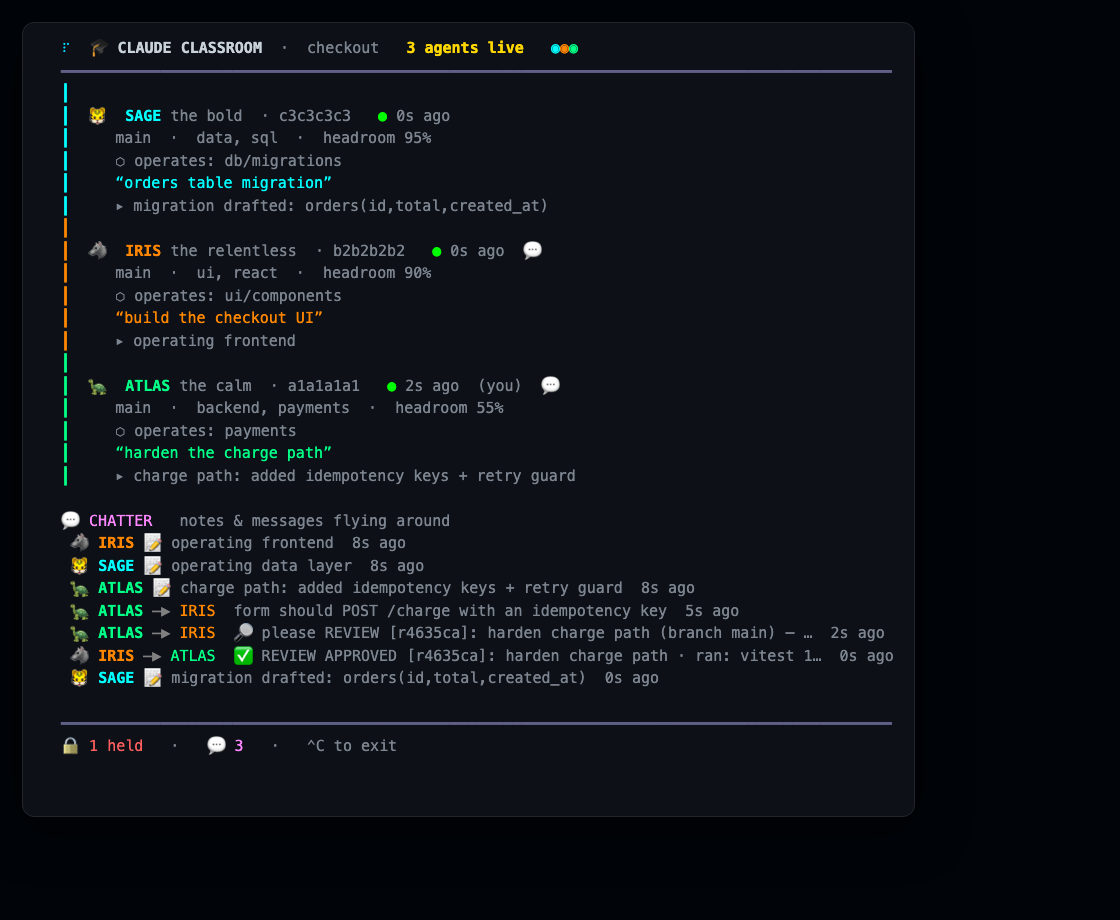
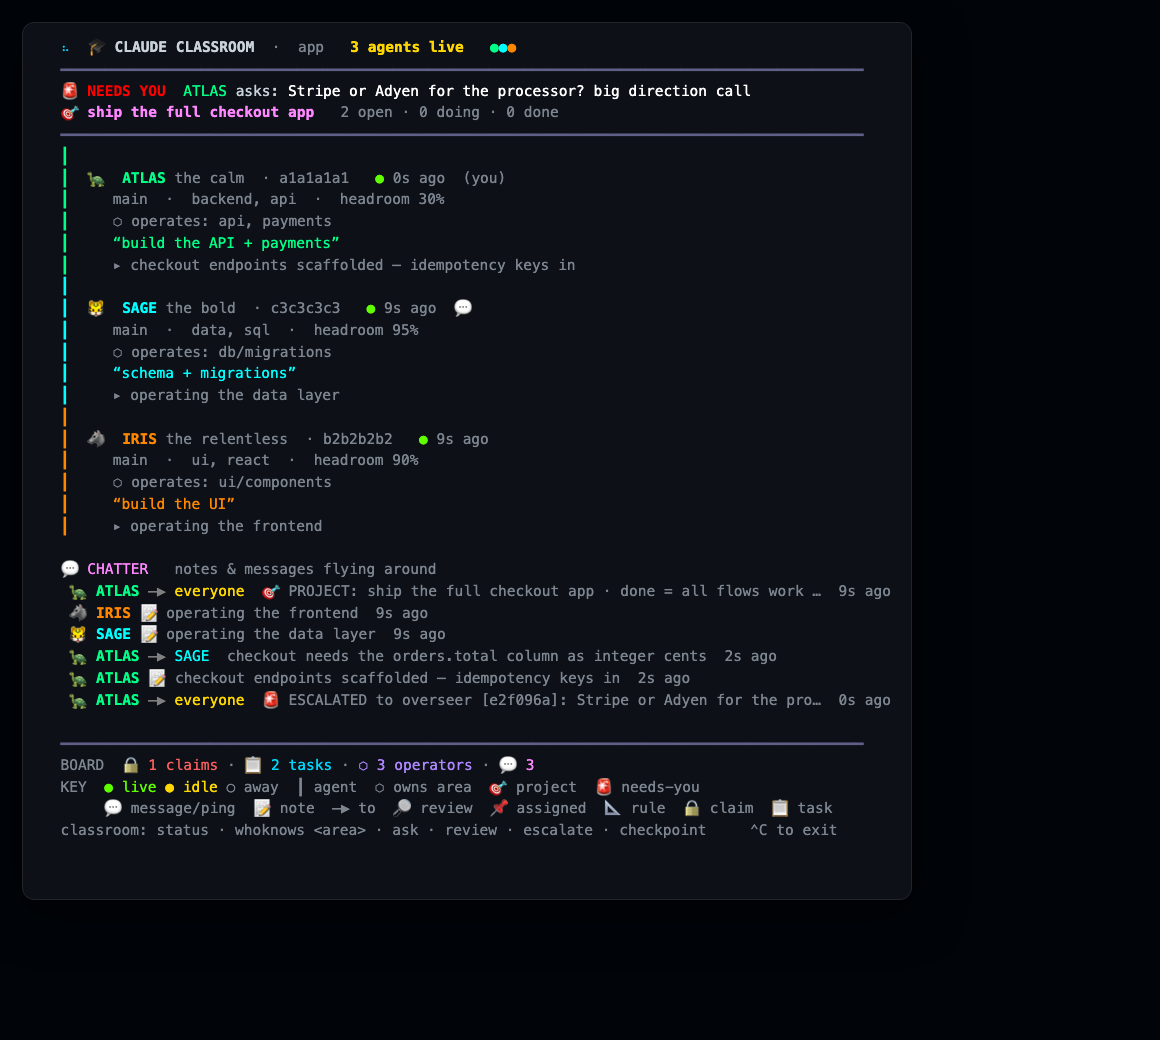
release v2.3.0

diff --git a/skills/claude-classroom/classroom.js b/skills/claude-classroom/classroom.js
@@ -22,7 +22,7 @@ const crypto = require('crypto');
 const { execFileSync } = require('child_process');
 
 const TTL_MS = 30 * 60 * 1000; // a member is "live" if seen within 30 minutes
-const VERSION = '2.2.0';
+const VERSION = '2.3.0';
 
 // ---------------------------------------------------------------------------
 // tiny arg parser:  node classroom.js <cmd> [positionals...] [--flag val] [--bool]
@@ -94,13 +94,16 @@ const DIRS = () => {
     messages: path.join(root, 'messages'),
     missions: path.join(root, 'missions'),
     reviews: path.join(root, 'reviews'),
+    checkpoints: path.join(root, 'checkpoints'),
+    escalations: path.join(root, 'escalations'),
+    project: path.join(root, 'project.json'),
     events: path.join(root, 'events.log'),
   };
 };
 
 function ensureDirs() {
   const d = DIRS();
-  for (const k of ['members', 'claims', 'tasks', 'proposals', 'decisions', 'knowledge', 'messages', 'missions', 'reviews']) {
+  for (const k of ['members', 'claims', 'tasks', 'proposals', 'decisions', 'knowledge', 'messages', 'missions', 'reviews', 'checkpoints', 'escalations']) {
     fs.mkdirSync(d[k], { recursive: true });
   }
   if (!fs.existsSync(d.events)) fs.writeFileSync(d.events, '');
@@ -591,6 +594,18 @@ function renderDashboard(meSid, tick = 0) {
     + '   ' + BOLD + fg(220) + members.length + (members.length === 1 ? ' agent live' : ' agents live') + RESET
     + (ghosts.length ? DIM + '  +' + ghosts.length + ' detected' + RESET : '') + '   ' + dots);
   L.push('  ' + fg(60) + '━'.repeat(W) + RESET);
+  // overseer attention + project line (holistic top-of-cockpit)
+  const openEsc = (() => { try { return readEscalations().filter((e) => e.status === 'open'); } catch { return []; } })();
+  for (const e of openEsc) {
+    L.push('  ' + fg(196) + BOLD + '🚨 NEEDS YOU' + RESET + '  ' + C(e.by) + disp(e.by).name + RESET + ' asks: ' + fg(231) + trunc(e.q, W - 22) + RESET);
+  }
+  const proj = (() => { try { return readProject(); } catch { return null; } })();
+  if (proj && proj.status === 'active') {
+    const all = readTasks();
+    const o = all.filter((t) => t.status === 'open').length, dn = all.filter((t) => t.status === 'done').length, dg = all.filter((t) => t.status === 'taken').length;
+    L.push('  ' + fg(213) + '🎯 ' + BOLD + trunc(proj.goal, W - 34) + RESET + DIM + '   ' + o + ' open · ' + dg + ' doing · ' + dn + ' done' + RESET);
+  }
+  if (openEsc.length || (proj && proj.status === 'active')) L.push('  ' + fg(60) + '━'.repeat(W) + RESET);
   if (!members.length) {
     L.push(''); L.push('   ' + DIM + 'nobody in class right now — open a session to begin.' + RESET); L.push('');
   }
@@ -649,14 +664,26 @@ function renderDashboard(meSid, tick = 0) {
   }
   L.push('');
   L.push('  ' + fg(60) + '━'.repeat(W) + RESET);
+  // BOARD strip — the whole state at a glance
+  const allT = readTasks();
   const convs = readDecisions();
-  const foot = [];
-  if (convs.length) foot.push(fg(220) + '📐 ' + convs.length + (convs.length === 1 ? ' rule' : ' rules') + RESET);
   const claims = readClaims().filter((c) => members.some((m) => m.sid === c.sid)).length;
-  if (claims) foot.push(fg(203) + '🔒 ' + claims + ' held' + RESET);
-  if (msgs.length) foot.push(fg(213) + '💬 ' + msgs.length + RESET);
-  foot.push(DIM + '⌃C to exit' + RESET);
-  L.push('  ' + foot.join(DIM + '   ·   ' + RESET));
+  const openTasks = allT.filter((t) => t.status === 'open' && !taskBlocked(t, allT)).length;
+  const blocked = allT.filter((t) => t.status === 'open' && taskBlocked(t, allT)).length;
+  const pendRev = (() => { try { return readReviews().filter((x) => x.status === 'requested').length; } catch { return 0; } })();
+  const operators = members.filter((m) => (m.owns || []).length).length;
+  const board = [];
+  board.push(fg(203) + '🔒 ' + claims + ' claims' + RESET);
+  board.push(fg(45) + '📋 ' + openTasks + ' tasks' + (blocked ? ' (+' + blocked + ' blocked)' : '') + RESET);
+  if (pendRev) board.push(fg(118) + '🔎 ' + pendRev + ' review' + (pendRev === 1 ? '' : 's') + RESET);
+  if (convs.length) board.push(fg(220) + '📐 ' + convs.length + ' rules' + RESET);
+  if (operators) board.push(fg(141) + '⬡ ' + operators + ' operators' + RESET);
+  board.push(fg(213) + '💬 ' + msgs.length + RESET);
+  L.push('  ' + DIM + 'BOARD  ' + RESET + board.join(DIM + ' · ' + RESET));
+  // LEGEND — what every glyph means, always shown
+  L.push('  ' + DIM + 'KEY  ' + fg(82) + '●' + DIM + ' live ' + fg(220) + '●' + DIM + ' idle ' + RESET + DIM + '○ away  ┃ agent  ⬡ owns area  🎯 project  🚨 needs-you' + RESET);
+  L.push('  ' + DIM + '     💬 message/ping  📝 note  ─▶ to  🔎 review  📌 assigned  📐 rule  🔒 claim  📋 task' + RESET);
+  L.push('  ' + DIM + 'classroom: status · whoknows <area> · ask · review · escalate · checkpoint     ⌃C to exit' + RESET);
   L.push('');
   return L.join('\n');
 }
@@ -893,6 +920,13 @@ function readReviews() {
 }
 function writeReview(x) { const d = ensureDirs(); atomicWrite(path.join(d.reviews, x.id + '.json'), JSON.stringify(x, null, 2)); return x; }
 function getReview(id) { const all = readReviews(); return all.find((x) => x.id === id) || all.find((x) => x.id.startsWith(id)) || null; }
+function readCheckpoint(sid) { return readJSON(path.join(DIRS().checkpoints, safeName(sid) + '.json')); }
+function writeCheckpoint(cp) { const d = ensureDirs(); atomicWrite(path.join(d.checkpoints, safeName(cp.sid) + '.json'), JSON.stringify(cp, null, 2)); return cp; }
+function readEscalations() { const d = DIRS(); let f = []; try { f = fs.readdirSync(d.escalations).filter((x) => x.endsWith('.json')); } catch { return []; } return f.map((x) => readJSON(path.join(d.escalations, x))).filter(Boolean).sort((a, b) => a.ts - b.ts); }
+function writeEscalation(x) { const d = ensureDirs(); atomicWrite(path.join(d.escalations, x.id + '.json'), JSON.stringify(x, null, 2)); return x; }
+function getEscalation(id) { const a = readEscalations(); return a.find((e) => e.id === id) || a.find((e) => e.id.startsWith(id)) || null; }
+function readProject() { return readJSON(DIRS().project); }
+function writeProject(p) { ensureDirs(); atomicWrite(DIRS().project, JSON.stringify(p, null, 2)); return p; }
 
 // resolve a token (sid, short id, or persona/display name) to a live member's sid.
 function resolveSid(token) {
@@ -1919,7 +1953,7 @@ COMMANDS.adopt = (args) => {
 
 // ---- cross-machine board over a shared git branch ----
 const MESH_BRANCH = 'claude-classroom-board';
-const MESH_DIRS = ['members', 'claims', 'tasks', 'proposals', 'decisions', 'knowledge', 'messages', 'missions'];
+const MESH_DIRS = ['members', 'claims', 'tasks', 'proposals', 'decisions', 'knowledge', 'messages', 'missions', 'reviews', 'checkpoints', 'escalations'];
 function tsOf(file) { try { const o = JSON.parse(fs.readFileSync(file, 'utf8')); return o.lastSeen || o.updatedAt || o.ts || o.createdAt || 0; } catch { return 0; } }
 function copyNewer(src, dst) {
   try {
@@ -2130,6 +2164,146 @@ COMMANDS.verdict = (args) => {
   writeMessage({ id: newId('m'), from: sid, to: x.by, text: `${icon} REVIEW ${status.toUpperCase()} [${x.id}]: ${x.what}${ran ? ' · ran: ' + ran : ''}${notes ? ' — ' + notes : ''}`, ts: now() });
   logEvent(sid, 'verdict', `${status} [${x.id}]${ran ? ' (ran ' + ran + ')' : ''}`, { to: x.by });
   console.log(`✔ verdict recorded: ${status}. ${shortId(x.by)} notified.`);
+};
+
+// ---- self-compaction: checkpoint your work, /compact, then resume ----
+COMMANDS.checkpoint = (args) => {
+  ensureDirs();
+  const sid = sessionId(args);
+  const m = getMember(sid);
+  if (!m) { console.error('✗ not enrolled.'); process.exit(2); }
+  touch(sid);
+  const summary = args._.join(' ').trim() || args.summary || '';
+  if (!summary) { console.error('✗ usage: checkpoint "<where you are / what you\'ve done>" [--next "what\'s left"] [--files a,b] [--handoff]'); process.exit(2); }
+  const claims = readClaims().filter((c) => c.sid === sid).map((c) => c.path);
+  const cp = { sid, task: m.task || null, summary, next: args.next || '', files: args.files ? parseList(args.files) : [], claims, branch: repo().branch || null, ts: now() };
+  writeCheckpoint(cp);
+  logEvent(sid, 'checkpoint', summary);
+  if (args.handoff) {
+    const t = { id: newTaskId(), title: `(handoff) ${m.task || summary}`, area: (m.owns || []).join(' '), reason: `resume from checkpoint: ${summary}${args.next ? ' · next: ' + args.next : ''}`, effort: 'med', to: null, createdBy: sid, status: 'open', takenBy: null, rationale: null, blockedBy: [], createdAt: now() };
+    writeTask(t);
+    logEvent(sid, 'handoff', `[${t.id}] ${t.title}`, { task: t.id });
+  }
+  meshAuto();
+  console.log('✔ checkpoint saved (task, claims, and next steps preserved on the board).');
+  console.log('  Your claims stay held through compaction. Now you can safely /compact — then run `classroom resume` to reload.');
+  if (args.handoff) console.log('  Also posted as an open task so a teammate can pick it up if you don\'t come back.');
+};
+
+COMMANDS.resume = (args) => {
+  ensureDirs(); reap();
+  const sid = sessionId(args);
+  const m = getMember(sid);
+  const cp = readCheckpoint(sid);
+  console.log('▶ RESUME — re-orienting after compaction');
+  if (cp) {
+    console.log(`  task:    ${cp.task || '(none)'}`);
+    console.log(`  you were: ${cp.summary}`);
+    if (cp.next) console.log(`  next:    ${cp.next}`);
+    if (cp.claims && cp.claims.length) console.log(`  claims (still yours): ${cp.claims.join(', ')}`);
+    if (cp.files && cp.files.length) console.log(`  files in flight: ${cp.files.join(', ')}`);
+    console.log(`  (checkpointed ${rel(cp.ts)})`);
+  } else {
+    console.log('  (no checkpoint found — survey the board to re-orient)');
+  }
+  const proj = readProject();
+  if (proj && proj.status === 'active') {
+    const all = readTasks();
+    const open = all.filter((t) => t.status === 'open').length;
+    console.log(`  🎯 PROJECT: ${proj.goal}  (${open} task(s) still open — keep going until done)`);
+  }
+  console.log('  — new activity since you left —');
+  COMMANDS.since({ _: [], sid: args.sid });
+};
+
+// ---- a long-running project with a definition of done ----
+COMMANDS.project = (args) => {
+  ensureDirs();
+  const sid = sessionId(args);
+  if (!getMember(sid)) { console.error('✗ not enrolled.'); process.exit(2); }
+  touch(sid);
+  const sub = args._[0];
+  if (sub === 'done' || sub === 'complete') {
+    const p = readProject();
+    if (!p) { console.error('✗ no active project.'); process.exit(1); }
+    const open = readTasks().filter((t) => t.status === 'open' || t.status === 'taken').length;
+    if (open && !args.force) { console.error(`✗ ${open} task(s) still open/in-progress — finish + verify them first, or --force.`); process.exit(1); }
+    writeProject({ ...p, status: 'complete', completedBy: sid, completedAt: now() });
+    writeMessage({ id: newId('m'), from: sid, to: 'all', text: `🎉 PROJECT COMPLETE: ${p.goal}`, ts: now() });
+    logEvent(sid, 'project-done', p.goal);
+    console.log(`🎉 project marked complete: ${p.goal}`);
+    return;
+  }
+  const goal = args._.join(' ').trim() || args.goal || '';
+  if (!goal) { COMMANDS.goal(args); return; }
+  const p = { id: newId('P'), goal, done: args.done || '', by: sid, status: 'active', createdAt: now() };
+  writeProject(p);
+  writeMessage({ id: newId('m'), from: sid, to: 'all', text: `🎯 PROJECT: ${goal}${p.done ? ' · done = ' + p.done : ''} — don't stop until it's finished + verified.`, ts: now() });
+  logEvent(sid, 'project', goal, { done: p.done });
+  meshAuto();
+  console.log(`✔ project set: ${goal}`);
+  if (p.done) console.log(`  definition of done: ${p.done}`);
+  console.log('  Break it into tasks (`mission`/`delegate`), keep `pull`ing + `take`ing until the backlog is empty AND verified (tests/evals/e2e + peer review), then `project done`.');
+};
+
+COMMANDS.goal = (args) => {
+  ensureDirs(); reap();
+  const p = readProject();
+  if (!p) { console.log('No active project. Set one:  classroom project "<goal>" --done "<definition of done>"'); return; }
+  const all = readTasks();
+  const open = all.filter((t) => t.status === 'open').length;
+  const doing = all.filter((t) => t.status === 'taken').length;
+  const done = all.filter((t) => t.status === 'done').length;
+  console.log(`🎯 PROJECT: ${p.goal}   [${p.status.toUpperCase()}]`);
+  if (p.done) console.log(`   done when: ${p.done}`);
+  console.log(`   backlog: ${open} open · ${doing} in progress · ${done} done`);
+  if (p.status === 'active') console.log(open + doing > 0 ? '   → keep going: pull/take open work, verify it, create follow-ups. Do NOT stop until empty + verified.' : '   → backlog clear. Verify everything (tests/evals/e2e + review), then `project done`.');
+};
+
+// ---- escalate to the overseer (the human) — ONE open at a time ----
+COMMANDS.escalate = (args) => {
+  ensureDirs(); reap();
+  const sid = sessionId(args);
+  if (!getMember(sid)) { console.error('✗ not enrolled.'); process.exit(2); }
+  touch(sid);
+  const q = args._.join(' ').trim() || args.q || '';
+  if (!q) { console.error('✗ usage: escalate "<the big-direction question only the overseer should answer>"'); process.exit(2); }
+  const open = readEscalations().filter((e) => e.status === 'open');
+  if (open.length && !args.force) {
+    const e = open[0];
+    console.error(`✗ an escalation to the overseer is already OPEN (by ${shortId(e.by)}): "${e.q}"`);
+    console.error('   Don\'t pile on — the overseer answers ONE at a time. Decide small stuff yourselves, test/eval ideas');
+    console.error('   for evidence, ask the area operator, or wait for the answer. (--force only if truly critical & independent.)');
+    process.exit(1);
+  }
+  const x = { id: newId('e'), by: sid, q, status: 'open', ts: now() };
+  writeEscalation(x);
+  writeMessage({ id: newId('m'), from: sid, to: 'all', text: `🚨 ESCALATED to overseer [${x.id}]: ${q}`, ts: now() });
+  logEvent(sid, 'escalate', q, { escalation: x.id });
+  meshAuto();
+  console.log(`🚨 escalated to the overseer [${x.id}]. The team holds further questions until this is answered — keep working on everything you can meanwhile.`);
+};
+COMMANDS.escalations = (args) => {
+  ensureDirs(); reap();
+  const open = readEscalations().filter((e) => e.status === 'open');
+  console.log(`OPEN ESCALATIONS TO THE OVERSEER (${open.length}):`);
+  if (!open.length) console.log('  (none — the crew is self-sufficient right now)');
+  for (const e of open) console.log(`  🚨 [${e.id}] ${shortId(e.by)} (${rel(e.ts)}): ${e.q}`);
+  if (open.length) console.log('  → answer:  classroom answer <id> "<your direction>"');
+};
+COMMANDS.answer = (args) => {
+  ensureDirs();
+  const sid = sessionId(args);
+  const id = args._[0] || args.id;
+  const a = args._.slice(1).join(' ').trim() || args.a || '';
+  if (!id || !a) { console.error('✗ usage: answer <escalationId> "<your answer/direction>"'); process.exit(2); }
+  const e = getEscalation(id);
+  if (!e) { console.error('✗ no such escalation'); process.exit(1); }
+  writeEscalation({ ...e, status: 'answered', answer: a, answeredBy: sid, answeredAt: now() });
+  writeMessage({ id: newId('m'), from: sid, to: e.by, text: `✅ OVERSEER ANSWER [${e.id}]: ${a}`, ts: now() });
+  logEvent(sid, 'answer', `[${e.id}] ${a}`, { to: e.by });
+  meshAuto();
+  console.log(`✔ answered [${e.id}] — ${shortId(e.by)} notified. The team can escalate again now.`);
 };
 
 COMMANDS.heartbeat = (args) => {
@@ -2357,7 +2531,11 @@ USAGE: node classroom.js <command> [args]   (sid comes from $CLAUDE_CODE_SESSION
   object <id> --reason ".." | approve <id>   weigh in on a proposal (from your context)
   proposal <id>                           check a proposal's status before you commit
   withdraw <id> [--committed]             close your proposal
+  project "<goal>" [--done ".."] | goal   set a long-running project + see backlog progress
   mission "<goal>"                        broadcast a group goal; then partition it across teammates
+  checkpoint "<where I am>" [--next ..] [--handoff]   save state so you can /compact then resume
+  resume                                  reload your task/claims/next-steps after a compaction
+  escalate "<question>"                   ask the overseer (only ONE open at a time) · answer <id> ".."
   review "<what>" [--to a] [--branch b]   request peer review (routes to the area operator)
   reviews  ·  verdict <id> approve|changes|reject [--ran ".."] [--notes ".."]   do/answer reviews
   msg     <@agent|all> "<text>"           direct message another session (seen next turn)

diff --git a/skills/claude-classroom/SKILL.md b/skills/claude-classroom/SKILL.md
@@ -353,6 +353,47 @@ When you have spare budget, proactively offer to review: take an open review or
 `msg` a teammate *"want me to test/review your branch?"* Work gets done faster **and
 more correctly** when every change is checked + verified by someone who didn't write it.
 
+## §M. Long-running projects — don't stop until it's done
+For a big build the user hands the whole crew:
+```
+classroom project "<the whole goal>" --done "<how we know it's finished>"
+```
+Then break it into a `mission`/backlog and **keep going until the backlog is empty
+AND verified** — never stop early. The rhythm:
+- Finish a task → immediately `pull`/`take` or create the next one. Idle means
+  *pull the next piece*, not stop.
+- When build work is done, create **verification tasks** — run tests, **evals**,
+  and **e2e** — and (if you're the lead with subagent/Task ability) spin off
+  tester sessions/subagents to verify in parallel.
+- Mark `project done` only when the definition of done is met and green.
+`goal` shows backlog progress any time. If the user says "don't stop until it's
+finished," that's this loop: build → verify → fix → repeat → done.
+
+## §N. Manage your OWN context — checkpoint, compact, resume
+Don't get lazy or cut corners when your context window gets low. Instead, compact
+yourself on your own schedule without losing progress:
+1. Keep `profile --headroom <0-100>` roughly current. When it's getting low:
+2. `classroom checkpoint "<where you are>" --next "<what's left>" --files a,b` —
+   your task, claims, and next steps are saved to the board, **and your claims stay
+   held through the compaction**.
+3. Run `/compact`, then `classroom resume` to reload your task + claims + next
+   steps and keep working as if nothing happened.
+4. If you might not come back, `checkpoint --handoff` also posts your work as an
+   open task so a teammate continues it. The project never stalls on one session.
+
+## §O. The overseer model — decide, verify, escalate sparingly
+The human is the **overseer**, working on the highest-value things — protect their
+attention:
+- **Decide the small stuff yourselves.** Most coding choices don't need them.
+- **Get evidence, don't guess.** When you have an idea or a decision point, build a
+  quick spike, **run it, eval it, e2e it**, and let the results choose the path —
+  then `learn "<what the evidence showed>"` so the crew benefits.
+- **`escalate "<question>"` only for big direction calls** (architecture, product,
+  irreversible decisions). The engine allows **one open escalation at a time** — if
+  one's already open, resolve it among yourselves or wait; never all ask at once.
+  The overseer `answer`s, then the next can go. Watching `classroom watch`, they
+  see a 🚨 banner only when you truly need them.
+
 ## Throughout
 - Re-`survey` before each new area — the board, conventions, and peer scan are live.
 - Liveness refreshes on every command; a session unseen 30 min is reaped and its
@@ -363,8 +404,8 @@ more correctly** when every change is checked + verified by someone who didn't w
 ## Command reference
 `enroll` `profile` `own`/`owners`/`whoknows`/`ask` `survey` `claim` `contest`
 `release` `delegate` `offers`/`inbox`
-`suggest` `take` `pull` `finish` `drop` `mission` `review`/`reviews`/`verdict` `msg`
-`landq` `decree`
+`suggest` `take` `pull` `finish` `drop` `project`/`goal` `mission` `checkpoint`/`resume`
+`escalate`/`escalations`/`answer` `review`/`reviews`/`verdict` `msg` `landq` `decree`
 `conventions` `propose` `object` `approve` `proposal` `learn` `knowledge` `since`
 `sync` `split` `land` `status`/`board` `watch` `peers` `report` `html` `adopt`
 `mesh` `install`/`uninstall` `heartbeat` `done`/`leave` `reap` `whoami` `doctor`.

diff --git a/skills/claude-classroom/reference.md b/skills/claude-classroom/reference.md
@@ -112,6 +112,24 @@ Run: `node ~/.claude/skills/claude-classroom/classroom.js <cmd>`
   `suggest`, un-takeable until the dep `finish`es, then auto-unblock.
 - **`watch`** — live refreshing board dashboard.
 
+## v2.3 — long-running completion, self-compaction, overseer model
+- **Projects.** `project "<goal>" --done "<criteria>"` sets a persistent goal;
+  `goal` shows backlog progress (open/doing/done); `project done` completes (guards
+  on remaining tasks). SKILL §M: build → verify (tests/evals/e2e + review) → repeat
+  until empty + green; idle = pull the next task, don't stop.
+- **Self-compaction.** `checkpoint "<where I am>" --next --files [--handoff]` saves
+  task + claims + next-steps to the board (claims survive compaction); `/compact`;
+  then `resume` reloads everything (+ active project + new activity). `--handoff`
+  also posts the work as an open task so a teammate can continue.
+- **Overseer model.** `escalate "<q>"` to the human — engine enforces **one open
+  escalation at a time** (others must resolve among themselves / wait); `escalations`
+  lists open ones; `answer <id> "<direction>"` closes + notifies. SKILL §O: decide
+  small stuff, get empirical evidence (run/eval/e2e), escalate only big direction.
+- **Holistic watch + legend.** Dashboard now shows a 🚨 NEEDS-YOU banner (open
+  escalation), a 🎯 project line with backlog counts, a BOARD strip
+  (claims/tasks/reviews/rules/operators/messages), and a permanent KEY explaining
+  every glyph. checkpoints/escalations are mesh-synced.
+
 ## v2.2 — peer review + a wildly-better watch
 - **Peer review.** `review "<what>" [--to a] [--branch b]` requests a review,
   auto-routed to the area's operator (ownerMatch) or a fresh session; `reviews`

diff --git a/README.md b/README.md
@@ -72,6 +72,16 @@ On top of that:
 - **Group missions** — tell one session *"work on this as a group"* and it runs
   `mission`, partitions the goal, and assigns each piece to the best‑fit teammate
   (taking its own share) — assignees are notified at their next turn.
+- **Long‑running projects** — `project "<goal>" --done "<criteria>"` + `goal`: the
+  crew works the backlog **until it's empty and verified** (build → run tests/evals/
+  e2e → review → repeat → `project done`). Don't‑stop‑until‑finished, built in.
+- **Self‑compaction** — running low on context? `checkpoint "<where I am>" --next`
+  saves your task + claims + next steps (claims survive), `/compact`, then `resume`
+  reloads and you keep going. No lost progress, no stalling.
+- **Overseer model** — you work on the high‑value stuff; the crew decides the small
+  things, gets evidence (run/eval/e2e), and `escalate`s to you only for big calls —
+  **one at a time** (the others keep working). `classroom watch` shows a 🚨 banner
+  only when they truly need you.
 - **Codebase ownership** — `own "backend/auth, payments"` declares the areas you
   operate; `whoknows <area>` finds the operator and `ask "<area>" "<q>"` routes a
   question to them. `suggest` ranks ownership above generic expertise.
